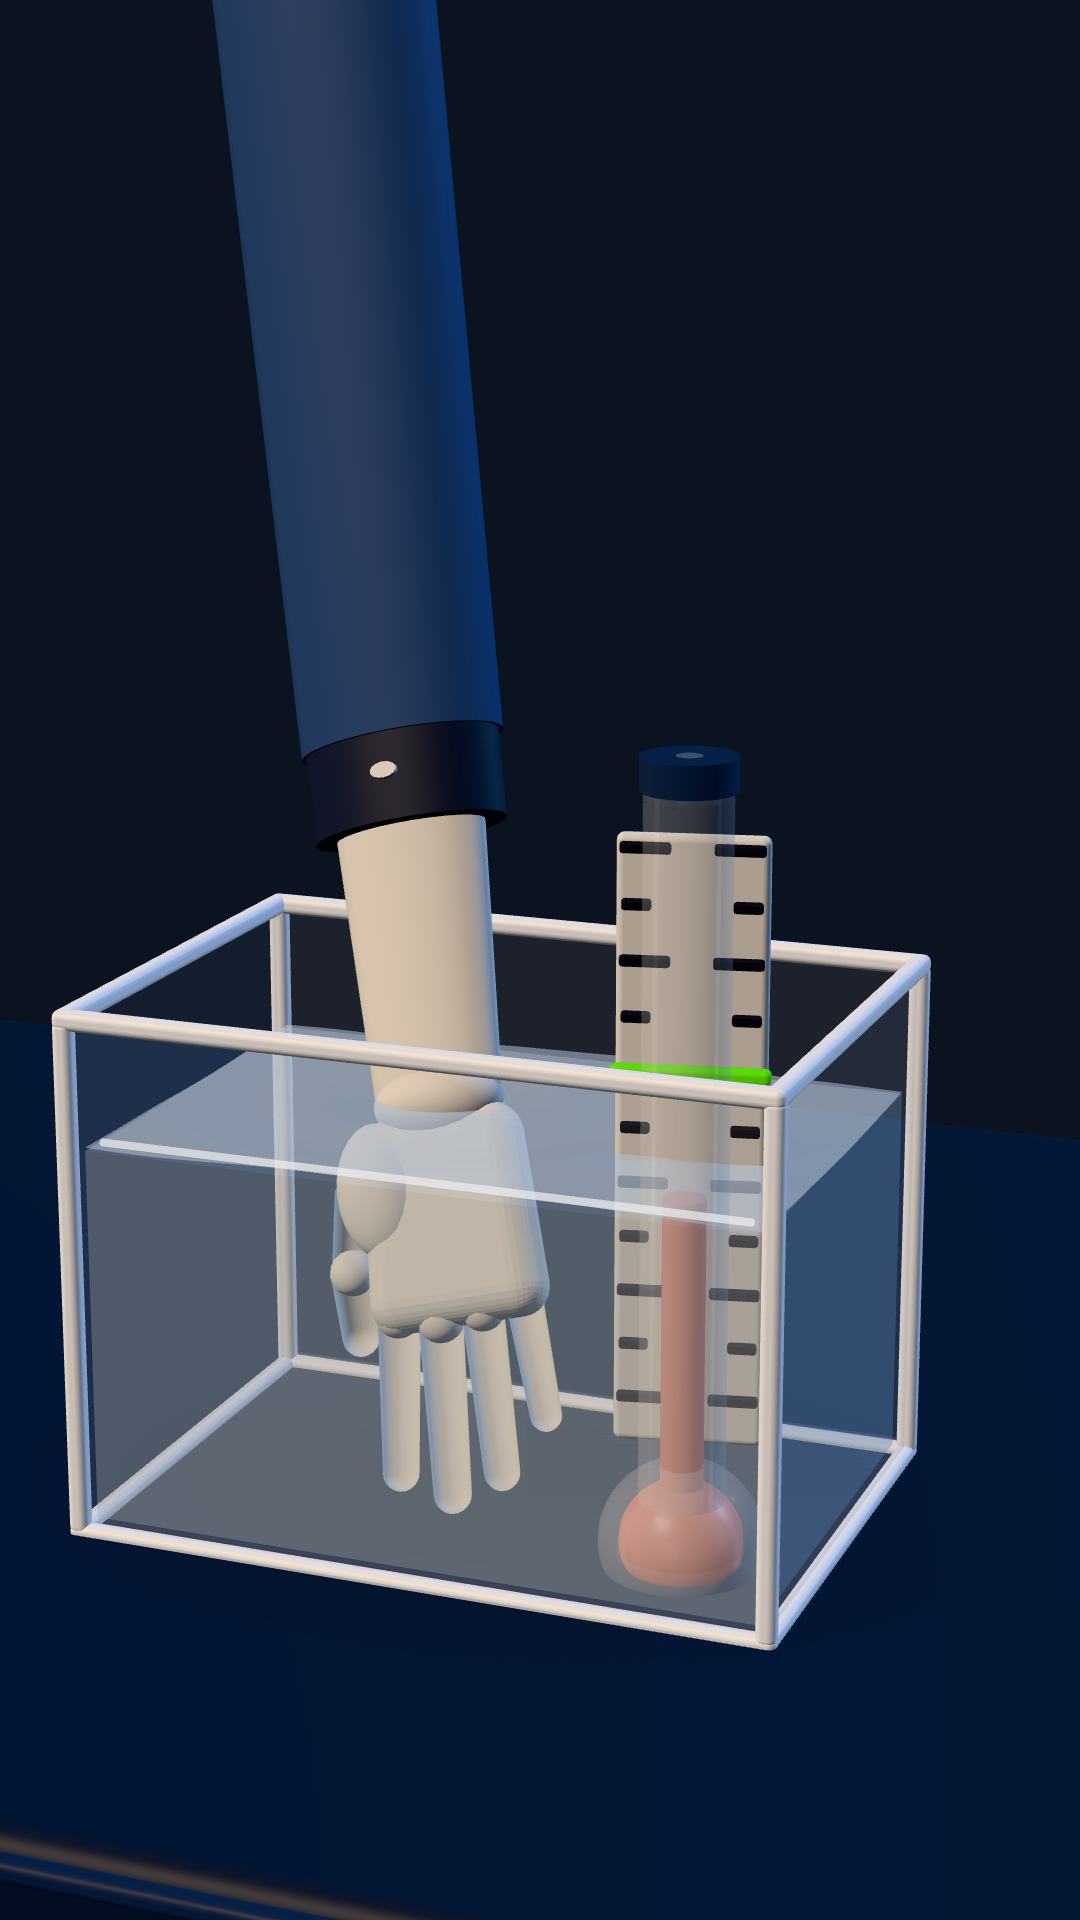
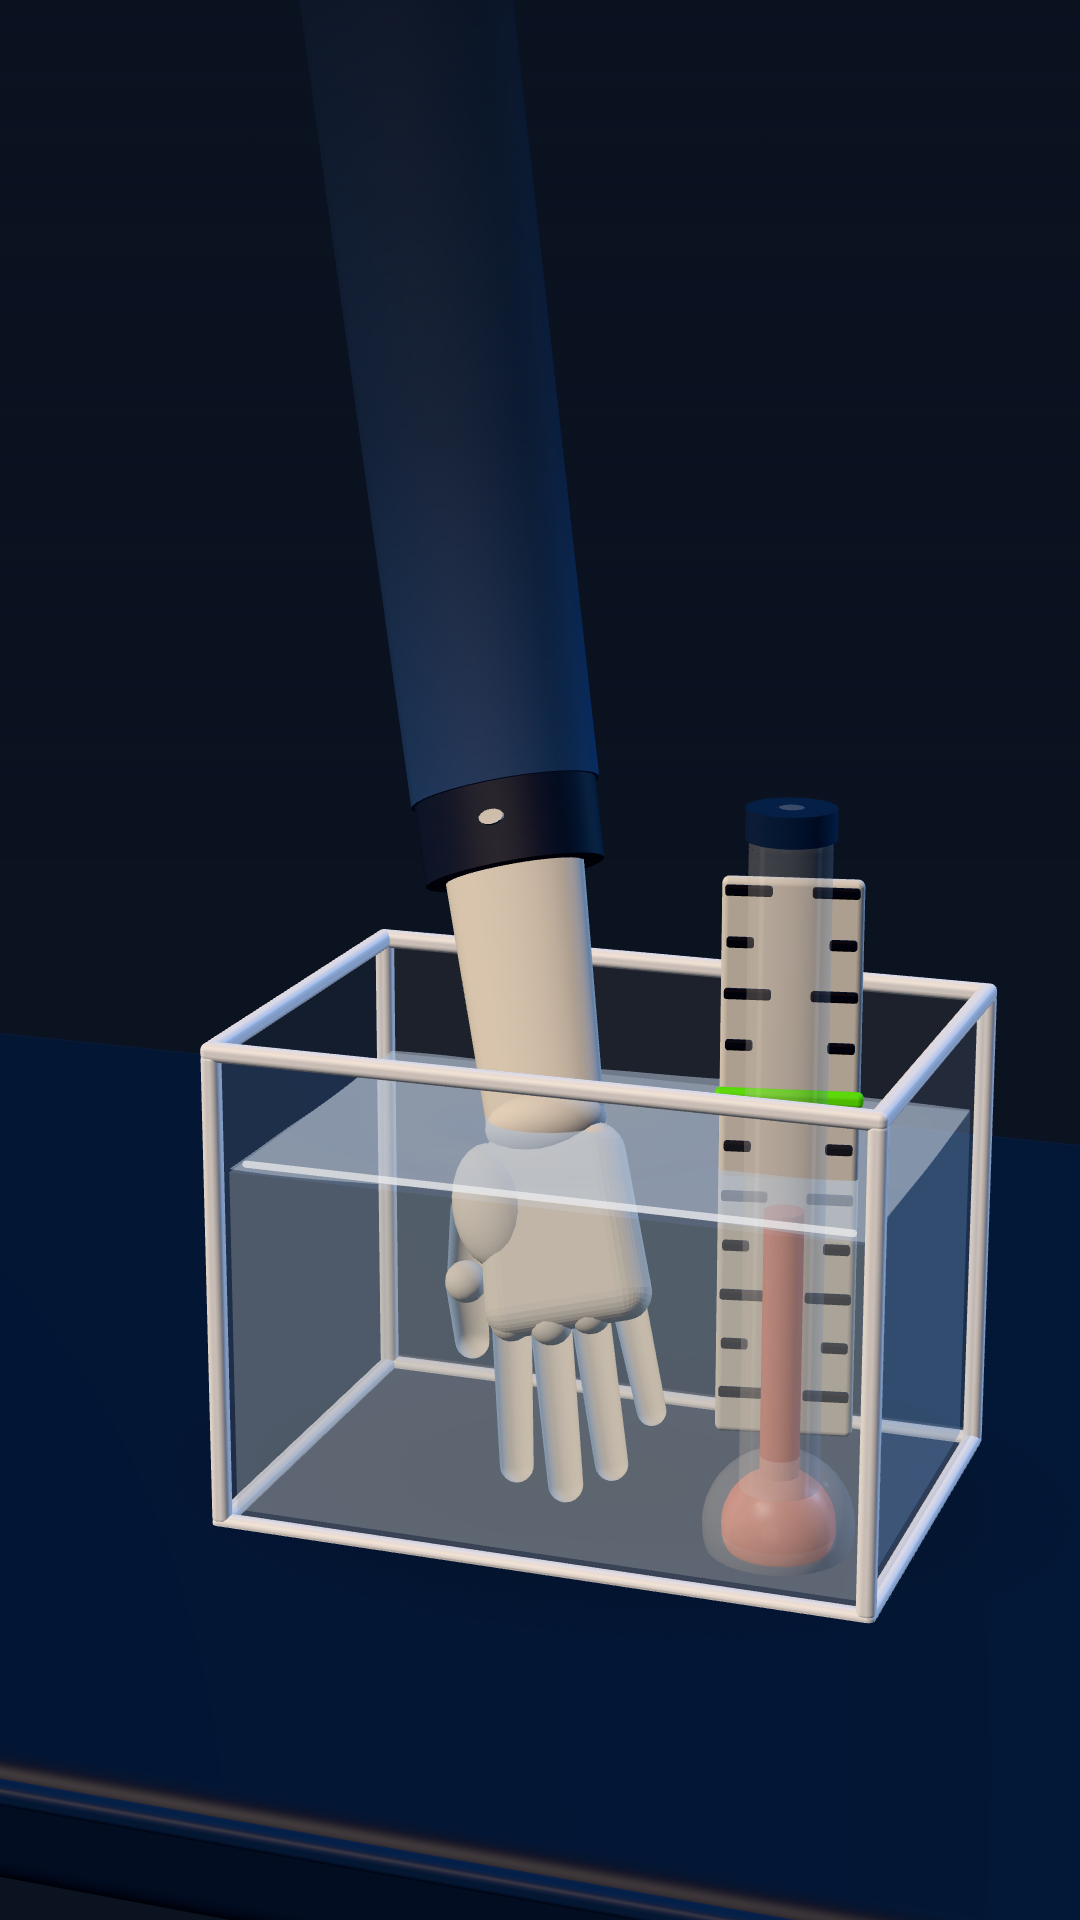
wip: por-que-el-final (ronda 3 corregida, portada)
Claude-Session: https://claude.ai/code/session_01Fn7kXBy2529fhE5CsyjfMd

diff --git a/reels/por-que-el-final/assets/tres.js b/reels/por-que-el-final/assets/tres.js
@@ -284,7 +284,7 @@ const fichas = [];
 const N_DER = 11, N_IZQ = 1;
 for (let i = 0; i < N_DER + N_IZQ; i++) {
   const der = i < N_DER;
-  const g = grupo(mesh(fichaGeo, der ? M.g : M.cr), mesh(fichaAro, der ? M.white : M.cr3));
+  const g = grupo(mesh(fichaGeo, der ? M.g : M.cr), mesh(fichaAro, der ? M.gd : M.cr3));
   g.userData = { der, k: der ? i : i - N_DER, rot: azar() * 0.6, dx: (azar() - 0.5) * 0.03, dz: (azar() - 0.5) * 0.03 };
   scene.add(g); fichas.push(g);
 }
@@ -384,7 +384,8 @@ const pantallas = {};
 // el calendario (hoja que se da vuelta: el día cambia)
 const calendario = new THREE.Group(); scene.add(calendario);
 const hojaPiv = new THREE.Group();
-const hojaMat = new THREE.MeshStandardMaterial({ color: 0xffffff, roughness: 0.6, emissive: 0xffffff, emissiveIntensity: 0.2, side: THREE.DoubleSide });
+const hojaMat = new THREE.MeshStandardMaterial({ color: 0xffffff, roughness: 0.6, emissive: 0xffffff, emissiveIntensity: 0.2, side: THREE.FrontSide });
+const hojaDorsoMat = new THREE.MeshStandardMaterial({ color: 0xefeee5, roughness: 0.7, emissive: 0xefeee5, emissiveIntensity: 0.35, side: THREE.FrontSide });
 const hojaAtrasMat = new THREE.MeshStandardMaterial({ color: 0xffffff, roughness: 0.6, emissive: 0xffffff, emissiveIntensity: 0.2 });
 {
   calendario.add(mesh(rbox(0.82, 0.92, 0.16, 0.05), M.cr2, 0, -0.04, -0.05));
@@ -393,6 +394,7 @@ const hojaAtrasMat = new THREE.MeshStandardMaterial({ color: 0xffffff, roughness
   calendario.add(mesh(new THREE.PlaneGeometry(0.74, 0.62), hojaAtrasMat, 0, -0.14, 0.035));
   hojaPiv.position.set(0, 0.17, 0.045); calendario.add(hojaPiv);
   const h = mesh(new THREE.PlaneGeometry(0.74, 0.62), hojaMat, 0, -0.31, 0); hojaPiv.add(h);
+  const dorso = mesh(new THREE.PlaneGeometry(0.74, 0.62), hojaDorsoMat, 0, -0.31, -0.002); dorso.rotation.y = Math.PI; hojaPiv.add(dorso);
 }
 // un segundo termómetro (el callback): el borde del celular sube un grado
 const termo2 = hacerTermo(); scene.add(termo2.g);
@@ -511,7 +513,7 @@ const TERMO_CIERRE = LOCAL_P.clone().add(V(1.24, 0.12, 0.55));
 // (ronda 2) baja en "¿Por qué?" cuando las manos ya salieron, sube en "final" con la mano adentro y baja
 // otra vez en "Recordamos…" llevándose la mano y el termómetro mientras nace la curva
 function labY(t) {
-  if (t < S["s05-quince"] - 0.45) return -4.5 * eio(sg(t, S["s03-por-que"] - 0.12, S["s03-por-que"] + 0.18));
+  if (t < S["s05-quince"] - 0.45) return -4.5 * eio(sg(t, S["s03-por-que"] - 0.32, S["s03-por-que"] - 0.05));
   return -4.5 * (1 - eo(sg(t, S["s05-quince"] - 0.42, S["s05-quince"] + 0.02))) - 4.5 * eio(sg(t, S["s07-pico-final"] - 0.12, S["s07-pico-final"] + 0.3));
 }
 
@@ -534,7 +536,8 @@ function poseMano(t) {
   // después de "la larga": las dos manos salen hacia arriba y atrás, rápido y antes de que bajen las chapas
   const g0 = sg(t, W[14] + 0.48, W[14] + 0.8), guarda = g0 * g0;
   if (t < S["s05-quince"] - 0.45) {
-    d.pos.y += 6.5 * guarda; i.pos.y += 6.5 * guarda; d.pos.z -= 2.2 * guarda; i.pos.z -= 2.2 * guarda;
+    // (ronda 4) salen a los costados, por debajo de los subtítulos: la izquierda a la izquierda, la derecha a la derecha
+    d.pos.x += 4.6 * guarda; i.pos.x -= 4.6 * guarda; d.pos.y += 0.9 * guarda; i.pos.y += 0.9 * guarda; d.pos.z -= 1.0 * guarda; i.pos.z -= 1.0 * guarda;
     if (g0 >= 1) { d.vis = 0; i.vis = 0; }
     return { d, i };
   }
@@ -548,7 +551,7 @@ function poseMano(t) {
   d.pos.y += 1.15 * subeT; d.rx = lerp(d.rx, BRAZO_INC.rx * 0.7, subeT);
   // antes de "Recordamos…": sale por el costado izquierdo con su brazo (no cruza los subtítulos)
   const e0 = sg(t, S["s07-pico-final"] - 0.62, S["s07-pico-final"] - 0.32), ex = e0 * e0;
-  d.pos.x -= 4.8 * ex; d.pos.y += 0.3 * ex;
+  d.pos.x -= 3.4 * ex; d.pos.y += 2.6 * ex;
   if (e0 >= 1) d.vis = 0;
   return { d, i };
 }
@@ -592,11 +595,11 @@ const CAM = [
   [S["s10-sale-solo"] + 1.0, -8, 4, 6.1, PH_POS.x, PH_POS.y + 0.36, PH_POS.z],
   [S["s11-llego-bien"], 4, 4, 5.95, PH_POS.x, PH_POS.y + 0.37, PH_POS.z],
   [S["s11b-grado-mejor"] - 0.05, 6, 4, 6.4, PH_POS.x + 0.02, PH_POS.y + 0.34, PH_POS.z],
-  [S["s11b-grado-mejor"] + 0.45, 4, 4, 7.3, PH_POS.x + 0.1, PH_POS.y + 0.3, PH_POS.z],
-  [S["s12-tu-local"] - 0.1, 2, 4, 7.4, PH_POS.x + 0.1, PH_POS.y + 0.3, PH_POS.z],
-  [S["s12-tu-local"] + 0.55, -2, 5, 12.0, LOCAL_P.x - 0.1, LOCAL_P.y + 1.25, LOCAL_P.z + 0.3],
-  [S["s13-llamada"] - 0.05, -2.5, 5, 11.8, LOCAL_P.x - 0.1, LOCAL_P.y + 1.25, LOCAL_P.z + 0.3],
-  [DUR, -3, 5, 11.6, LOCAL_P.x - 0.1, LOCAL_P.y + 1.25, LOCAL_P.z + 0.3],
+  [S["s11b-grado-mejor"] + 0.45, 4, 4, 8.3, PH_POS.x + 0.1, PH_POS.y + 0.05, PH_POS.z],
+  [S["s12-tu-local"] - 0.3, 2, 4, 8.4, PH_POS.x + 0.1, PH_POS.y + 0.05, PH_POS.z],
+  [S["s12-tu-local"] + 0.55, -2, 9, 11.5, LOCAL_P.x - 0.1, LOCAL_P.y + 1.0, LOCAL_P.z + 0.3],
+  [S["s13-llamada"] - 0.05, -2.5, 9, 11.4, LOCAL_P.x - 0.1, LOCAL_P.y + 1.0, LOCAL_P.z + 0.3],
+  [DUR, -3, 9, 11.3, LOCAL_P.x - 0.1, LOCAL_P.y + 1.0, LOCAL_P.z + 0.3],
 ];
 const _mira = new THREE.Vector3();
 const val = (k) => [k[1], k[2], Math.log(k[3]), k[4], k[5], k[6]];
@@ -642,7 +645,7 @@ function celPose(t, az) {
   const t0 = S["s09-callan"] + 0.02;
   const gira = eio(sg(t, S["s10-sale-solo"] - 0.1, S["s10-sale-solo"] + 0.55));
   const corre = eo(sg(t, S["s11b-grado-mejor"] - 0.1, S["s11b-grado-mejor"] + 0.35)); // le hace lugar al termómetro
-  const aparte = eio(sg(t, S["s12-tu-local"] - 0.05, S["s12-tu-local"] + 0.45)); // se corre a la izquierda: entra el local
+  const aparte = eio(sg(t, S["s12-tu-local"] - 0.3, S["s12-tu-local"] + 0.2)); // se corre a la izquierda: entra el local
   const pos = lerpV(PH_POS.clone().add(V(-0.38 * corre, -(1 - eo(sg(t, t0, t0 + 0.4))) * 0.5 + Math.sin(t * 1.1) * 0.02, 0)), CEL_CIERRE, aparte);
   if (en(t, S["s10-sale-solo"] + 0.25, S["s10-sale-solo"] + 0.6) || en(t, W[73] - 0.1, W[73] + 0.2)) pos.x += Math.sin(t * 90) * 0.012;
   const ry = lerp(az * D2R * 0.3 + Math.sin(Math.PI * gira) * 0.45 - 0.12 + Math.sin(t * 0.9) * 0.03, az * D2R + 0.12, aparte);
@@ -733,7 +736,7 @@ function renderAt(t) {
     if (t < S["s03-por-que"] + 0.4) { s = labOn ? 1 : 0; }
     else if (t < S["s05-quince"] - 0.45) {
       gigante = true;
-      const baja = sg(t, S["s04-minuto-y-medio"] - 0.34, S["s04-minuto-y-medio"] - 0.12);
+      const baja = sg(t, S["s04-minuto-y-medio"] - 0.34, S["s04-minuto-y-medio"] - 0.22);
       s = t >= ti && baja < 1 ? 1.5 : 0; // baja y sale por abajo, detrás del cronómetro, que ya entró grande
       flipX = Math.max(0.02, eio(sg(t, ti, ti + 0.17)));
       pos = V(QX.x - 0.5, 0.2 - 6 * baja * baja, QX.z);
@@ -803,12 +806,12 @@ function renderAt(t) {
   // ---- el "?" verde: sube grande en "¿Por qué?" y se encoge en su punto justo antes del termómetro ----
   {
     // nace delante de todo (más cerca de la cámara que las cubetas y la torre), con pop desde mediano
-    const pt = S["s03-por-que"] - 0.06;
+    const pt = S["s03-por-que"] - 0.13; // nace mientras el laboratorio termina de hundirse (sin cuadros vacíos ni cruces)
     const sube = bk(sg(t, pt, pt + 0.22));
     const va = eio(sg(t, W[17] - 0.2, W[17] - 0.06));
     const s = t < pt || t >= W[17] - 0.04 ? 0 : 1.3 * lerp(0.72, 1, sube);
     ocultar(pregunta, s);
-    pregunta.position.set(QX.x - 0.4, 1.95, QX.z + 0.3);
+    pregunta.position.set(QX.x - 0.4, 1.95, QX.z + 0.6);
     pregunta.rotation.set(0, cam.az * D2R + Math.sin(t * 1.3) * 0.16, 0);
     if (pregunta.visible) { pregunta.scale.multiplyScalar(1 + 0.05 * Math.sin(Math.PI * sg(t, W[16], W[16] + 0.3))); pregunta.scale.x *= Math.max(0.02, 1 - va); pregunta.scale.z *= Math.max(0.02, 1 - va); }
     void PREG_H;
@@ -838,8 +841,8 @@ function renderAt(t) {
     const t0 = S["s07-pico-final"] - 0.35; // la curva nace mientras la cámara sube (nunca media pantalla vacía)
     const dib = eio(sg(t, t0, t0 + 0.95));
     // se retira ANTES de que nazca el paquete (no lo atraviesa)
-    const va = eio(sg(t, S["s08-cobrar"] - 0.36, S["s08-cobrar"] - 0.15));
-    const on = t >= t0 && t < S["s08-cobrar"] - 0.14;
+    const va = eio(sg(t, S["s08-cobrar"] - 0.3, S["s08-cobrar"] - 0.08));
+    const on = t >= t0 && t < S["s08-cobrar"] - 0.07;
     curvaMesh.visible = on && dib > 0.01;
     curvaGeo.setDrawRange(0, Math.floor((curvaGeo.index.count * dib) / 6) * 6);
     curvaMat.opacity = 1 - va; // (transparent fijo desde el inicio: cambiarlo en caliente no recompila y no se fundía)
@@ -861,10 +864,10 @@ function renderAt(t) {
 
   // ---- el paquete: el pin verde del final ES el paquete (entra grande); el ticket "pagado" se le pega ----
   {
-    const t0 = S["s08-cobrar"] - 0.18; // nace mientras la curva termina de fundirse, debajo de ella (no la cruza ni deja hueco)
+    const t0 = S["s08-cobrar"] - 0.2; // nace mientras la curva termina de fundirse, debajo de ella (no la cruza ni deja hueco)
     const s = t < t0 ? 0 : lerp(0.9, 1, bk(sg(t, t0, t0 + 0.3)));
     // "Y ahí": el celular entra delante y el paquete baja y se va por detrás
-    const baja = eio(sg(t, S["s09-callan"] - 0.12, S["s09-callan"] + 0.15));
+    const baja = eio(sg(t, S["s09-callan"] + 0.0, S["s09-callan"] + 0.25)); // baja recién cuando entra el celular (sin cuadros vacíos)
     const P0 = PAQ.clone();
     ocultar(paquete, baja > 0.99 ? 0 : s);
     paquete.position.copy(P0).add(V(0, -3.5 * baja, 0));
@@ -877,7 +880,7 @@ function renderAt(t) {
     // el ticket entra desde la izquierda y se pega al frente del paquete
     const tt = W[54] - 0.1;
     const llega = eo(sg(t, tt, tt + 0.4));
-    ticket.visible = t >= tt && t < S["s09-callan"] + 0.05;
+    ticket.visible = t >= tt && t < S["s09-callan"] + 0.3;
     if (ticket.visible) {
       const ang = cam.az * D2R - 0.35;
       const frente = V(Math.sin(ang), 0, Math.cos(ang));
@@ -917,8 +920,9 @@ function renderAt(t) {
     ocultar(calendario, sale > 0.99 ? 0 : pop * 1.28);
     calendario.position.copy(PH_POS).add(V(0.0 + 2.6 * sale, 0.55 + 0.3 * sale, 0.3));
     calendario.rotation.set(0, cam.az * D2R + 0.08, 0.04 - 0.35 * sale);
-    hojaPiv.rotation.x = eio(sg(t, W[72] - 0.15, W[72] + 0.3)) * Math.PI * 0.98;
-    hojaPiv.visible = hojaPiv.rotation.x < Math.PI * 0.5;
+    // la hoja de LUN gira hacia la cámara (se ve venir) y desaparece de canto; detrás queda MAR
+    hojaPiv.rotation.x = -Math.pow(sg(t, W[72] - 0.2, W[72] + 0.2), 1.6) * Math.PI * 0.5;
+    hojaPiv.visible = hojaPiv.rotation.x > -Math.PI * 0.49;
   }
 
   // ---- el termómetro del callback: entra desde la derecha al lado del celular y sube UN grado ----
@@ -927,7 +931,7 @@ function renderAt(t) {
     const llega = eo(sg(t, t0, t0 + 0.4));
     const sc = t < t0 ? 0 : 0.95;
     ocultar(termo2.g, sc);
-    const aparte = eio(sg(t, S["s12-tu-local"] - 0.05, S["s12-tu-local"] + 0.45));
+    const aparte = eio(sg(t, S["s12-tu-local"] - 0.3, S["s12-tu-local"] + 0.2));
     termo2.g.position.copy(lerpV(PH_POS.clone().add(V(lerp(2.6, 0.72, llega), -1.32, 0.15)), TERMO_CIERRE, aparte));
     if (termo2.g.visible) termo2.g.scale.multiplyScalar(lerp(1, 0.75, aparte));
     termo2.g.rotation.set(0, cam.az * D2R, 0);
@@ -938,13 +942,15 @@ function renderAt(t) {
     const entra = bk(sg(t, t0 + 0.15, t0 + 0.45));
     ponerNum(num14b, sc > 0 ? entra : 0, ch.viejo, 0.8); num14b.position.copy(tope); deCara(num14b, cam.az);
     // el 15° se funde en "¿Lo vemos en tu local?" (si no, tapa el cartel del local)
-    ponerNum(num15b, sc > 0 ? ch.nuevo : 0, 1 - sg(t, S["s12-tu-local"] - 0.05, S["s12-tu-local"] + 0.25), 0.8); num15b.position.copy(tope); deCara(num15b, cam.az);
+    ponerNum(num15b, sc > 0 ? ch.nuevo : 0, 1 - sg(t, S["s12-tu-local"] - 0.32, S["s12-tu-local"] - 0.08), 0.8); num15b.position.copy(tope); deCara(num15b, cam.az);
     if (num15b.visible) num15b.scale.multiplyScalar(1 + 0.1 * Math.sin(Math.PI * sg(t, W[77] + 0.35, W[77] + 0.65)));
   }
 
   // ---- el local: entra grande detrás del celular en "¿Lo vemos en tu local?" ----
   {
-    const s = t < S["s12-tu-local"] ? 0 : lerp(0.6, 1, bk(sg(t, S["s12-tu-local"], S["s12-tu-local"] + 0.4)));
+    const s = t < S["s12-tu-local"] - 0.02 ? 0 : lerp(0.7, 1, bk(sg(t, S["s12-tu-local"] - 0.02, S["s12-tu-local"] + 0.35)));
+    // S1: la vidriera se prende con el brillo (~31,0 s)
+    vidrieraMat.emissiveIntensity = 0.55 + 0.7 * Math.sin(Math.PI * sg(t, S["s12-tu-local"] + 0.5, S["s12-tu-local"] + 0.95));
     ocultar(local, s * 1.0); local.position.copy(LOCAL_P); local.rotation.set(0, cam.az * D2R * 0.5 - 0.12, 0);
     localSombra.visible = false;
   }

diff --git a/reels/por-que-el-final/compositions/s11b-grado-mejor.html b/reels/por-que-el-final/compositions/s11b-grado-mejor.html
@@ -23,7 +23,7 @@
     [data-composition-id="s11b-grado-mejor"] .selbox.r i { border-color: #c7655b; }
     [data-composition-id="s11b-grado-mejor"] .selbox .k1 { left: -14px; top: -14px; } [data-composition-id="s11b-grado-mejor"] .selbox .k2 { right: -14px; top: -14px; } [data-composition-id="s11b-grado-mejor"] .selbox .k3 { left: -14px; bottom: -14px; } [data-composition-id="s11b-grado-mejor"] .selbox .k4 { right: -14px; bottom: -14px; }
     [data-composition-id="s11b-grado-mejor"] .sello { position: absolute; padding: 14px 34px 18px; border: 9px solid #c7655b; border-radius: 22px; font: 900 92px/1 "Lexend", sans-serif; letter-spacing: 0.02em; color: #c7655b; background: rgba(11,18,32,0.78); opacity: 0; white-space: nowrap; }
-[data-composition-id="s11b-grado-mejor"] .sello { left: 400px; top: 1745px; border-color: #5ce611; color: #0b1220; background: #5ce611; font-size: 72px; }
+[data-composition-id="s11b-grado-mejor"] .sello { left: 370px; top: 1545px; border-color: #5ce611; color: #0b1220; background: #5ce611; font-size: 72px; }
   </style>
   <div id="root" data-composition-id="s11b-grado-mejor" data-width="1080" data-height="1920" data-duration="2.63">
     <div id="s11b-grado-mejor-esc" class="esc clip" data-start="0" data-duration="2.63" data-track-index="0">
